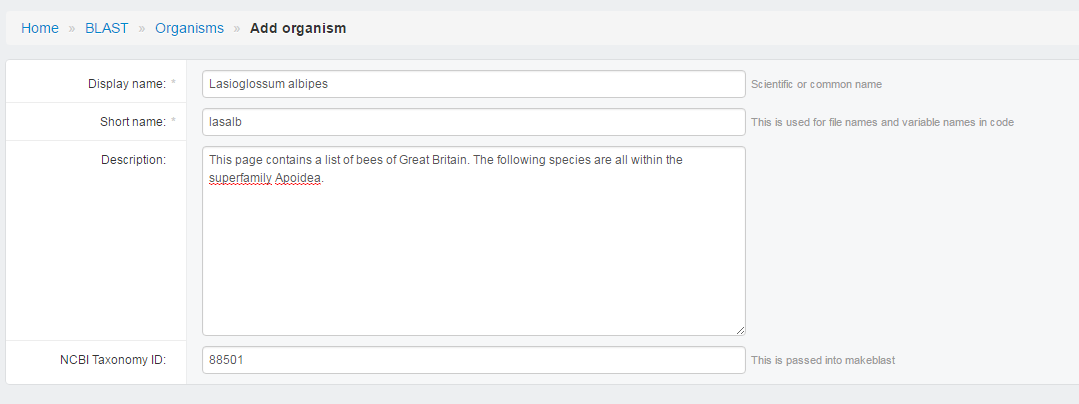
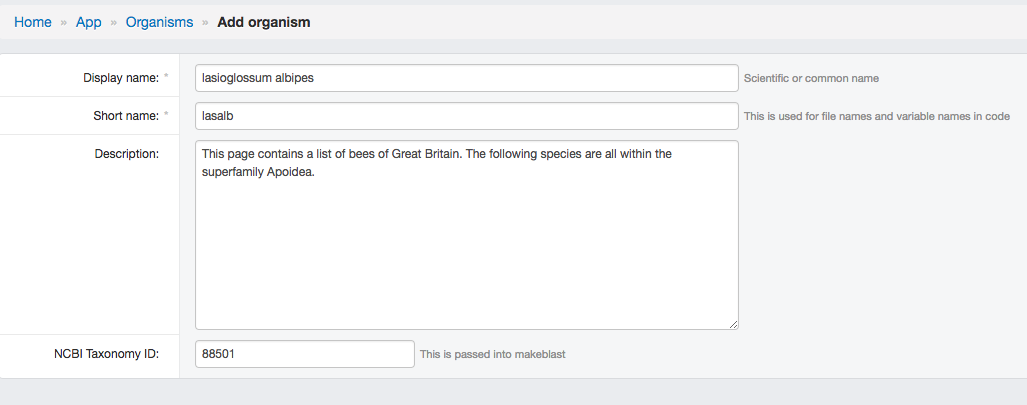
customize sidebar in admin page

diff --git a/i5k/settings.py b/i5k/settings.py
@@ -187,65 +187,45 @@ FILEBROWSER_VERSIONS = {
     'large': {'verbose_name': 'Large (8 col)', 'width': 680, 'height': '', 'opts': ''},
 }
 
-
+# suit settings
 ENABLE_JBROWSE_INTEGRATION = False
 
 if ENABLE_JBROWSE_INTEGRATION:
-    suit_menu = (
-        {'app': 'blast', 'label': 'BLAST', 'icon':'icon-leaf', 'models': (
+    blast_models = (
             {'model': 'blastqueryrecord'},
             {'model': 'sequencetype'},
             {'model': 'blastdb'},
-            # only exsit when ENABLE_JBROWSE_INTEGRATION == True
-            {'model': 'jbrowsesetting'},
+            {'model': 'jbrowsesetting'},  # only exsit when ENABLE_JBROWSE_INTEGRATION == True
             {'model': 'sequence'},
-        )},
-        {'app': 'hmmer', 'label': 'Hmmer', 'icon': 'icon-leaf', 'models': (
-            {'model': 'hmmerdb'},
-            {'model': 'hmmerqueryrecord'},
-        )},
-        {'app': 'clustal', 'label': 'clustal', 'icon': 'icon-leaf', 'models': (
-            {'model': 'clustalqueryrecord'},
-        )},
-        {'app': 'data', 'label': 'Data', 'icon': 'icon-leaf', 'models': (
-            {'model': 'file'},
-            {'model': 'item'},
-            {'model': 'accession'},
-        )},
-        # auth and axes
-        {'label': 'Auth', 'icon': 'icon-lock', 'models': (
-            {'model': 'auth.user'},
-            {'model': 'auth.group'},
-            {'model': 'axes.accessattempt'},
-            {'model': 'axes.accesslog'},
-        )},
-        {'label': 'File Browser', 'icon': 'icon-hdd', 'url': 'fb_browse'},
     )
 else:
-    suit_menu = (
-        {'app': 'blast', 'label': 'BLAST', 'icon': 'icon-leaf', 'models': (
+    blast_models = (
             {'model': 'blastqueryrecord'},
-            {'model': 'organism'},
             {'model': 'sequencetype'},
             {'model': 'blastdb'},
             {'model': 'sequence'},
-        )},
-        {'app': 'hmmer', 'label': 'Hmmer', 'icon': 'icon-leaf', 'models': (
-            {'model': 'hmmerdb'},
-            {'model': 'hmmerqueryrecord'},
-        )},
-        {'app': 'clustal', 'label': 'clustal', 'icon':'icon-leaf', 'models': (
-            {'model': 'clustalqueryrecord'},
-        )},
-        # auth and axes
-        {'label': 'Auth', 'icon': 'icon-lock', 'models': (
-            {'model': 'auth.user'},
-            {'model': 'auth.group'},
-            {'model': 'axes.accessattempt'},
-            {'model': 'axes.accesslog'},
-        )},
-        {'label': 'File Browser', 'icon': 'icon-hdd', 'url': 'fb_browse'},
     )
+suit_menu = (
+    {'app': 'app', 'label': 'Organism', 'icon': 'icon-leaf', 'url': '/admin/app/organism/', 'models': (
+        {'model': 'Organism'},
+    )},
+    {'app': 'blast', 'label': 'BLAST', 'icon': 'icon-leaf', 'models': blast_models},
+    {'app': 'hmmer', 'label': 'Hmmer', 'icon': 'icon-leaf', 'models': (
+        {'model': 'hmmerdb'},
+        {'model': 'hmmerqueryrecord'},
+    )},
+    {'app': 'clustal', 'label': 'clustal', 'icon': 'icon-leaf', 'models': (
+        {'model': 'clustalqueryrecord'},
+    )},
+    # auth and axes
+    {'label': 'Auth', 'icon': 'icon-lock', 'url': '/admin/auth/user/', 'models': (
+        {'model': 'auth.user'},
+        {'model': 'auth.group'},
+        {'model': 'axes.accessattempt'},
+        {'model': 'axes.accesslog'},
+    )},
+    {'label': 'File Browser', 'icon': 'icon-hdd', 'url': 'fb_browse'},
+)
 
 # Django Suit configuration
 SUIT_CONFIG = {

diff --git a/sphinx_doc/user_guide.rst b/sphinx_doc/user_guide.rst
@@ -23,9 +23,9 @@ Follow the instruction shown on your terminal, then browse and login to the admi
 BLAST Database Configuration
 ----------------------------
 
-There are five steps to create BLAST database.
+There are five steps to create a BLAST database.
 
-* Add Organism:
+* Add Organism (click the **Organism** icon at sidebar and click **Add organism**):
 
   * Display name should be scientific name.
   * Short name are used by system as a abbreviation.
